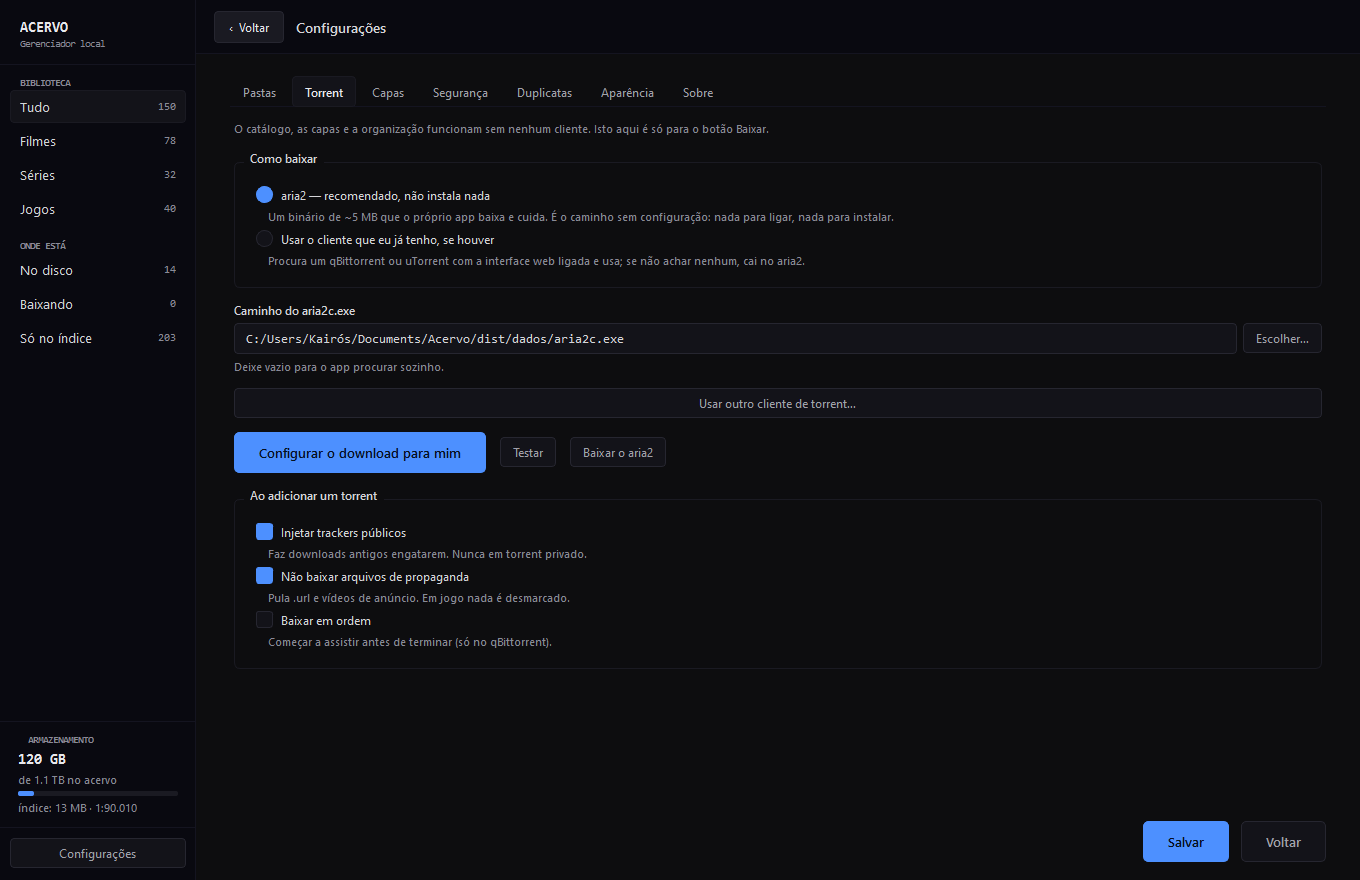
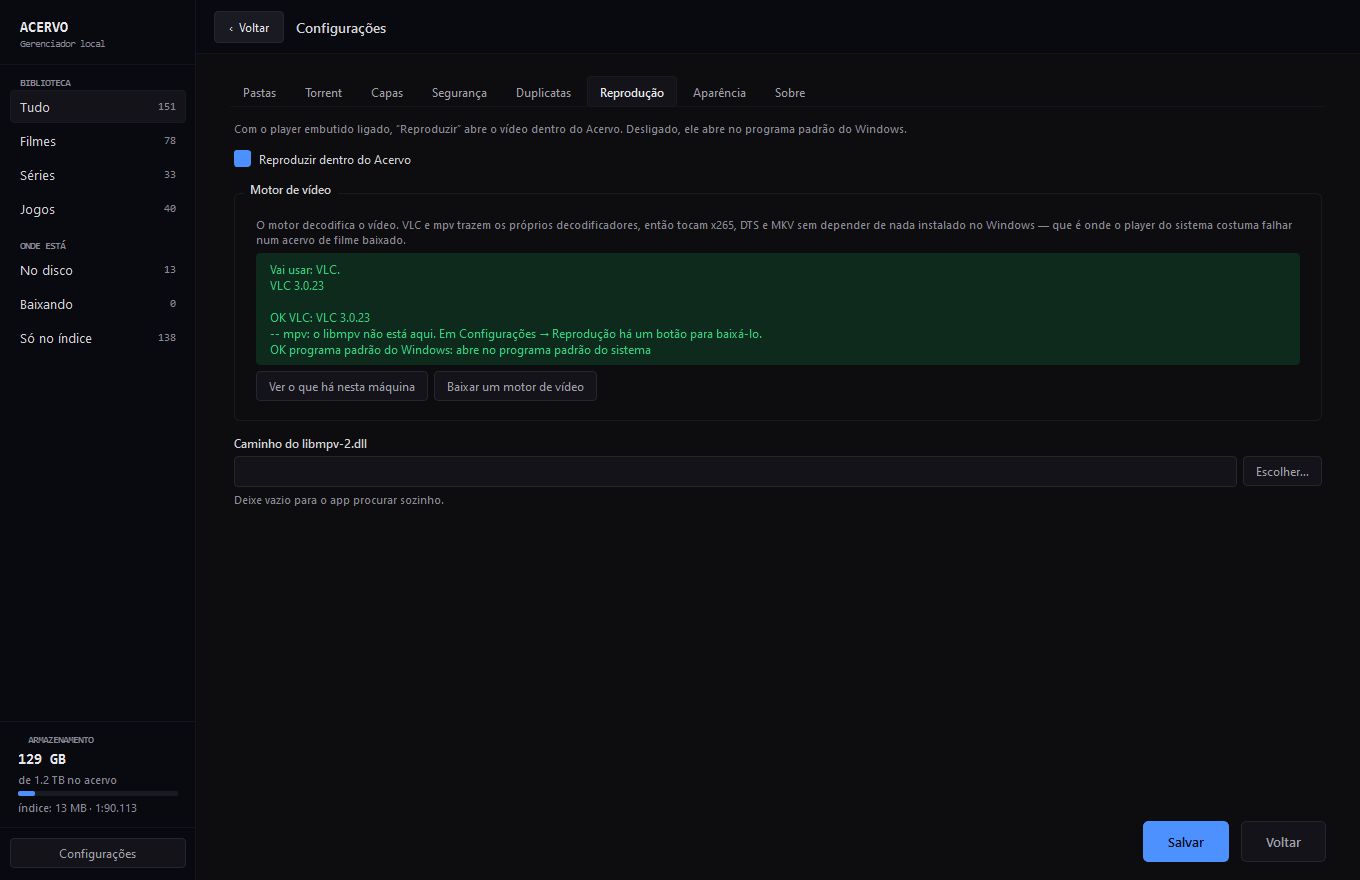
Diálogo com fundo, contador que fecha, e o site em dia
Ao refazer as capturas do site, duas coisas apareceram.

Os diálogos nunca tiveram fundo. A folha de estilo só pintava QWidget#raiz,
então todo QDialog ficava com o cinza padrão do Windows enquanto o texto seguia
a cor do tema: no tema escuro, o título de "Onde assistir" media 1,1:1 de
contraste — invisível. Agora QDialog e QMessageBox têm o fundo do tema, e o
título mede 15,9:1 no escuro, 17,3:1 no claro e 21:1 no alto contraste.

A barra lateral misturava unidades. Os filtros de cima contam obras (tabela
itens); os de baixo contavam torrents (tabela disco). "Só no índice" prometia
203 e a grade abria com 138. Passa a contar obras distintas, e cada contador
agora é comparado no teste com o tamanho da lista que o clique dele produz.

O site e o README ganham o player embutido e o apagar por arquivo, que não
existiam quando aquela página foi escrita, com capturas novas.

Versão 0.2.0.

diff --git a/docs/index.html b/docs/index.html
@@ -242,6 +242,14 @@
       <p>Mesmo infohash, mesma obra em qualidades diferentes, e arquivos repetidos no disco — cada caso com um tratamento diferente.</p>
     </div>
     <div class="recurso">
+      <h3>Player <em>embutido</em></h3>
+      <p>Toca com o motor do VLC — x265, DTS e MKV sem depender de codec do Windows. Troca faixa de áudio, lê os <code>.srt</code> da pasta, tem tela cheia de verdade e volta de onde você parou.</p>
+    </div>
+    <div class="recurso">
+      <h3>Apagar <em>escolhendo o quê</em></h3>
+      <p>Numa série de vinte episódios, apagar os cinco já assistidos — e só eles. Antes de apagar, diz quanto libera e avisa quando ninguém mais semeia aquilo, porque só aí apagar deixa de ser reversível.</p>
+    </div>
+    <div class="recurso">
       <h3>Acessibilidade <em>de verdade</em></h3>
       <p>Três temas (inclusive alto contraste), tamanho de texto ajustável, tudo alcançável por teclado e anunciado pelo leitor de tela.</p>
     </div>
@@ -258,13 +266,62 @@
         — dá para conferir de qual arquivo se trata sem ele dominar a tela.
       </p>
       <p>
-        Se o arquivo está no disco, o botão reproduz no seu player padrão. Se não
-        está, o mesmo botão baixa.
+        Se o arquivo está no disco, o botão reproduz — aqui dentro, no player
+        embutido, ou no programa que você já usa: ele pergunta na primeira vez e
+        obedece dali em diante. Se não está no disco, o mesmo botão baixa.
       </p>
     </div>
     <figure>
       <img class="tela" src="imagens/obra.jpg" width="1360" height="880" loading="lazy"
            alt="Tela de uma série no Acervo: imagem de fundo, título grande, sinopse, botão Baixar, lista de episódios e ficha com tamanho, seeds e hash.">
+    </figure>
+  </div>
+
+  <div class="par invertido">
+    <div>
+      <h3>Assistir sem sair daqui</h3>
+      <p>
+        O player embutido usa o motor do VLC, então toca o que o player do Windows
+        recusa: x265, DTS, MKV com várias faixas. Se o áudio dublado vier num
+        formato que a placa não abre, ele percebe e troca de faixa sozinho em vez
+        de tocar em silêncio.
+      </p>
+      <p>
+        Barra de tempo que vai aonde você clica, episódio seguinte e anterior numa
+        série, botão de recomeçar, e tela cheia que é a tela inteira. Ele guarda
+        onde você parou e oferece continuar dali na próxima vez.
+      </p>
+      <p>
+        É opcional. Na primeira reprodução ele pergunta onde você quer assistir, e
+        a resposta vale para sempre — ou até você mudar em Configurações.
+      </p>
+    </div>
+    <figure>
+      <img class="tela" src="imagens/escolher.png" width="501" height="474" loading="lazy"
+           alt="Diálogo do Acervo perguntando onde assistir: aqui no Acervo usando o VLC, ou no programa padrão do Windows, com a opção de não perguntar de novo.">
+      <figcaption>Pergunta uma vez. Depois obedece.</figcaption>
+    </figure>
+  </div>
+
+  <div class="par">
+    <div>
+      <h3>Apagar o arquivo, não a obra</h3>
+      <p>
+        Liberar espaço sem perder o catálogo: a mídia sai do disco, o
+        <code>.torrent</code> continua no índice e a obra segue lá, com capa e
+        sinopse, pronta para ser baixada de novo.
+      </p>
+      <p>
+        Você marca arquivo por arquivo e vê a conta subir enquanto marca. Se
+        alguma coisa ali não tem semeadores conhecidos, o app diz isso antes —
+        porque nesse caso apagar é definitivo, e essa diferença precisa aparecer
+        na hora da decisão, não depois.
+      </p>
+    </div>
+    <figure>
+      <img class="tela" src="imagens/apagar.png" width="1056" height="832" loading="lazy"
+           alt="Tela do Acervo para apagar arquivos: lista de episódios com tamanho, três marcados, e o rodapé somando 1,9 GB que seriam liberados.">
+      <figcaption>Três de vinte e um marcados, 1,9 GB. A conta é do acervo real.</figcaption>
     </figure>
   </div>
 

diff --git a/testes/casos_layout.py b/testes/casos_layout.py
@@ -13,6 +13,7 @@ from pathlib import Path
 
 sys.path.insert(0, str(Path(__file__).resolve().parent.parent))
 
+from PySide6.QtGui import QColor            # noqa: E402
 from PySide6.QtWidgets import QApplication  # noqa: E402
 
 from core import config, consultas, db      # noqa: E402
@@ -21,6 +22,95 @@ from ui.grade import GradeObras             # noqa: E402
 from ui.widgets import PROPORCAO_CAPA, TAMANHOS_CARTAO  # noqa: E402
 
 JANELAS = [(1320, 840), (1366, 740), (980, 640), (1920, 1080), (1100, 700)]
+
+
+def _luminancia(c: QColor) -> float:
+    def canal(v: int) -> float:
+        v /= 255
+        return v / 12.92 if v <= 0.03928 else ((v + 0.055) / 1.055) ** 2.4
+    return (0.2126 * canal(c.red()) + 0.7152 * canal(c.green())
+            + 0.0722 * canal(c.blue()))
+
+
+def _contraste(a: QColor, b: QColor) -> float:
+    menor, maior = sorted((_luminancia(a), _luminancia(b)))
+    return (maior + 0.05) / (menor + 0.05)
+
+
+def _conferir_dialogos(app, cfg) -> int:
+    """Os dialogos precisam ter o fundo do tema.
+
+    A folha de estilo so pintava `QWidget#raiz`, entao todo QDialog ficava com o
+    cinza padrao do Windows enquanto o texto seguia a cor do tema. No tema
+    escuro isso dava claro sobre claro: o titulo media 1,1:1 de contraste, ou
+    seja, invisivel. Aqui cada dialogo e desenhado nos tres temas e medido.
+    """
+    from core import players
+    from ui.escolher_player import ContinuarDe, EscolherPlayer
+
+    motor, _ = players.escolher(cfg)
+    falhas = 0
+    for nome, pal in (("escuro", tema.ESCURO), ("claro", tema.CLARO),
+                      ("contraste", tema.CONTRASTE)):
+        app.setStyleSheet(tema.folha(pal, 1.0))
+        for rotulo, dialogo in (
+                ("escolher player", EscolherPlayer("Obra", motor.nome, pal, 1.0)),
+                ("continuar de", ContinuarDe("Obra", 754.0, 2600.0, pal, 1.0))):
+            dialogo.adjustSize()
+            dialogo.show()
+            app.processEvents()
+            img = dialogo.grab().toImage()
+            fundo = QColor(img.pixel(4, 4))
+            esperado = QColor(pal.fundo)
+            faixa = [QColor(img.pixel(x, y)) for y in range(24, 46)
+                     for x in range(22, min(img.width() - 2, 420), 3)]
+            titulo = max(faixa, key=lambda c: _contraste(c, fundo))
+            razao = _contraste(titulo, fundo)
+            if fundo != esperado:
+                print(f"FALHA  {rotulo} no tema {nome}: fundo {fundo.name()}, "
+                      f"o tema pede {esperado.name()}")
+                falhas += 1
+            elif razao < 4.5:
+                print(f"FALHA  {rotulo} no tema {nome}: título a {razao:.1f}:1 "
+                      f"de contraste (mínimo 4,5:1)")
+                falhas += 1
+            else:
+                print(f"OK     {rotulo:16} tema {nome:9} fundo do tema, "
+                      f"título a {razao:4.1f}:1")
+            dialogo.close()
+            app.processEvents()
+    return falhas
+
+
+def _conferir_contadores(con, cfg) -> int:
+    """A barra lateral promete um numero; a grade precisa entregar aquele numero.
+
+    Os filtros de cima contam obras (tabela `itens`) e os de baixo contavam
+    torrents (tabela `disco`), que sao unidades diferentes: "So no indice"
+    dizia 203 e a grade abria com 138. Aqui cada contador e comparado com o
+    tamanho da lista que o clique dele produz.
+    """
+    r = consultas.resumo(con, cfg)
+    falhas = 0
+    for estado, rotulo in (("completo", "No disco"), ("parcial", "Baixando"),
+                           ("indice", "Só no índice")):
+        promete = r["estados"].get(estado, {}).get("obras", 0)
+        entrega = len(consultas.listar(con, estado=estado))
+        if promete != entrega:
+            print(f"FALHA  contador “{rotulo}” diz {promete}, a grade mostra "
+                  f"{entrega}")
+            falhas += 1
+        else:
+            print(f"OK     contador {rotulo:14} {promete:>4} = o que a grade mostra")
+
+    soma_tipos = sum(r["por_tipo"].get(t, 0) for t in ("filme", "serie", "jogo"))
+    if soma_tipos != r["itens"]:
+        print(f"FALHA  filmes+séries+jogos = {soma_tipos}, mas “Tudo” diz "
+              f"{r['itens']}")
+        falhas += 1
+    else:
+        print(f"OK     contador {'Tudo':14} {r['itens']:>4} = filmes+séries+jogos")
+    return falhas
 
 
 def main() -> int:
@@ -104,6 +194,9 @@ def main() -> int:
         print("OK     ação  remontar 6x deixa 1 barra e 1 botão")
     janela.close()
     app.processEvents()
+
+    falhas += _conferir_dialogos(app, cfg)
+    falhas += _conferir_contadores(con, cfg)
 
     con.close()
     if falhas:

diff --git a/core/consultas.py b/core/consultas.py
@@ -128,10 +128,18 @@ def resumo(con: sqlite3.Connection, cfg) -> dict:
         linha = con.execute(sql).fetchone()
         return linha[0] if linha else 0
 
+    # `n` conta torrents; `obras` conta obras distintas. Os dois numeros existem
+    # porque a barra lateral filtra obras: contar torrents ali prometia 203 "so
+    # no indice" e a grade abria com 138. O que a pessoa clica e o que ela ve.
     estados = {
-        l["estado"]: {"n": l["n"], "bytes": l["b"] or 0}
+        l["estado"]: {"n": l["n"], "obras": l["o"], "bytes": l["b"] or 0}
         for l in con.execute(
-            "SELECT estado, COUNT(*) n, SUM(bytes_presentes) b FROM disco GROUP BY estado")
+            "SELECT d.estado estado, COUNT(*) n, "
+            "       COUNT(DISTINCT t.item_id) o, SUM(d.bytes_presentes) b "
+            "FROM disco d "
+            "LEFT JOIN torrents t ON t.caminho = d.caminho_torrent "
+            "                    AND t.corrompido = 0 "
+            "GROUP BY d.estado")
     }
     return {
         "itens": um("SELECT COUNT(*) FROM itens"),

diff --git a/ui/janela.py b/ui/janela.py
@@ -648,13 +648,13 @@ class Janela(QWidget):
             "tipo:filme": r["por_tipo"].get("filme", 0),
             "tipo:serie": r["por_tipo"].get("serie", 0),
             "tipo:jogo": r["por_tipo"].get("jogo", 0),
-            "estado:completo": r["estados"].get("completo", {}).get("n", 0),
+            "estado:completo": r["estados"].get("completo", {}).get("obras", 0),
             # "Baixando" conta o que o cliente tem em maos — inclusive pausado.
             # Antes contava arquivo incompleto no disco, que e outra coisa: um
             # download pausado com tudo baixado sumia dali.
             "estado:parcial": (len(self._no_cliente)
-                               or r["estados"].get("parcial", {}).get("n", 0)),
-            "estado:indice": r["estados"].get("indice", {}).get("n", 0),
+                               or r["estados"].get("parcial", {}).get("obras", 0)),
+            "estado:indice": r["estados"].get("indice", {}).get("obras", 0),
         }.items():
             b = self.botoes_nav.get(chave)
             if b:

diff --git a/ui/tema.py b/ui/tema.py
@@ -112,6 +112,13 @@ def folha(p: Paleta, escala: float = 1.0) -> str:
 QWidget#raiz, QWidget#areaCentral {{ background: {p.fundo}; }}
 QWidget {{ color: {p.texto}; }}
 
+/* Dialogos. Sem isto eles ficam com o cinza padrao do Windows enquanto o texto
+   segue a cor do tema — claro sobre claro, ilegivel no tema escuro. */
+QDialog, QMessageBox {{ background: {p.fundo}; }}
+QDialog QScrollArea {{ background: transparent; border: none; }}
+QDialog QScrollArea > QWidget > QWidget {{ background: transparent; }}
+QMessageBox QLabel {{ color: {p.texto}; }}
+
 /* ------------------------------------------------------------- lateral */
 QWidget#lateral {{
     background: {p.lateral};

diff --git a/core/sobre.py b/core/sobre.py
@@ -11,7 +11,7 @@ deles aparecem; ambas as coisas sao mostradas na aba "Sobre".
 from __future__ import annotations
 
 NOME = "Acervo"
-VERSAO = "0.1.0"
+VERSAO = "0.2.0"
 DESCRICAO = "Gerenciador local de biblioteca de torrents."
 
 AUTOR = "Davi Bueno (buenosdev)"

diff --git a/README.md b/README.md
@@ -68,8 +68,18 @@ apagar é irreversível.
    é obrigatória;
 4. inicia.
 
+**Assiste aqui dentro.** Player embutido sobre o motor do VLC, que toca x265,
+DTS e MKV sem depender de codec do Windows. Troca de faixa de áudio (e troca
+sozinho quando a faixa dublada não abre), lê os `.srt` da pasta, tem tela cheia
+de verdade, episódio seguinte e anterior numa série, e volta de onde você
+parou. É opcional: na primeira reprodução ele pergunta se você prefere o seu
+player de sempre, e obedece dali em diante.
+
 **Devolve o espaço.** Depois de assistir, um botão apaga a mídia e mantém o
 `.torrent`. A biblioteca continua inteira no catálogo, ocupando kilobytes.
+Numa série dá para marcar só os episódios já assistidos — o app soma quanto
+libera antes, e avisa quando ninguém mais semeia aquilo, porque só nesse caso
+apagar deixa de ser reversível.
 
 ## Capas
 
